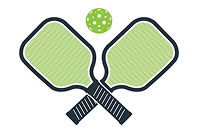
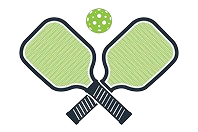
Style fixes

diff --git a/client/src/components/LiveStream.tsx b/client/src/components/LiveStream.tsx
@@ -2,46 +2,47 @@
 
 export default function LiveStream() {
   return (
-    <section id="stream" className="stream-section">
-      <div className="stream-header">
+    <section id='stream' className='stream-section'>
+      <div className='stream-header'>
         <div>
-          <h2 className="stream-title">Live Court Feed</h2>
-          <p className="stream-sub">Stream Each Court in Real Time</p>
+          <h2 className='stream-title'>Live Court Feed</h2>
+          <p className='stream-sub'>Stream Each Court in Real Time</p>
         </div>
 
-        <span className="live-badge">
-          <span className="dot" /> Live
-        </span>
+        <div className='live-pill'>
+          <span className='live-dot' />
+          Live
+        </div>
       </div>
 
-      <div className="stream-grid">
-        <figure className="stream-card">
-          <figcaption className="stream-tag">Court 1</figcaption>
-          <div className="stream-frame">
+      <div className='stream-grid'>
+        <figure className='stream-card'>
+          <figcaption className='stream-tag'>Court 1</figcaption>
+          <div className='stream-frame'>
             {/* Streams the livestream of court 1 */}
             <iframe
-              width="560"
-              height="315"
-              src="https://www.youtube.com/embed/LCwzqDMXbCk?autoplay=1&mute=1"
-              title="YouTube live stream"
-              frameBorder="0"
-              allow="autoplay; encrypted-media"
+              width='560'
+              height='315'
+              src='https://www.youtube.com/embed/LCwzqDMXbCk?autoplay=1&mute=1'
+              title='YouTube live stream'
+              frameBorder='0'
+              allow='autoplay; encrypted-media'
               allowFullScreen
             ></iframe>
           </div>
         </figure>
 
-        <figure className="stream-card">
-          <figcaption className="stream-tag">Court 2</figcaption>
-          <div className="stream-frame">
+        <figure className='stream-card'>
+          <figcaption className='stream-tag'>Court 2</figcaption>
+          <div className='stream-frame'>
             {/* Streams the livestream of court 2 */}
             <iframe
-              width="560"
-              height="315"
-              src="https://www.youtube.com/embed/-yaAA2wVHRA?autoplay=1&mute=1"
-              title="YouTube live stream"
-              frameBorder="0"
-              allow="autoplay; encrypted-media"
+              width='560'
+              height='315'
+              src='https://www.youtube.com/embed/-yaAA2wVHRA?autoplay=1&mute=1'
+              title='YouTube live stream'
+              frameBorder='0'
+              allow='autoplay; encrypted-media'
               allowFullScreen
             ></iframe>
           </div>

diff --git a/client/src/App.css b/client/src/App.css
@@ -6,7 +6,6 @@
   display: flex;
   justify-content: center;
   align-items: flex-end;
-  border-radius: 12px 12px 0 0;
 }
 
 .nav-pill {
@@ -92,25 +91,24 @@ body {
 }
 
 .hero-logo {
-  width: 75px;
+  width: 200px;
   height: auto;
-  margin-bottom: 8px;
 }
 
 .site-title {
   font-family: "Chelsea Market", serif;
-  font-size: 64px;
+  font-size: 72px;
   color: #aec48c;
-  text-shadow: -4px 0 0 #2f5130;
+  text-shadow: -4px 4px 0 #2f5130;
   margin: 0;
 }
 
 .hero-tagline {
   font-family: "Bree Serif", serif;
-  font-size: 22px;
+  font-size: 20px;
   font-weight: 300;
   color: #6f7f6b;
-  margin-top: 14px;
+  margin-top: -10px;
 }
 
 /* OCCUPANCY */
@@ -125,14 +123,16 @@ body {
 
 .occ-head {
   display: flex;
-  align-items: flex-start;
+  align-items: center;
   justify-content: space-between;
-  margin: 10px 0 18px;
+  margin-bottom: 65px;
 }
 .occ-title {
   margin: 0;
-  font: 700 22px/1 "Bree Serif", serif;
-  color: #222;
+  font-family: "Bree Serif", serif;
+  font-weight: 700;
+  font-size: 26px;
+  color: #1f2e1e;
 }
 .occ-sub {
   margin: 6px 0 0;
@@ -281,15 +281,15 @@ body {
 
 .divider {
   width: 100vw;
-  height: 14px;
+  height: 23px;
   border: none;
-  border-top: 5px solid #a9b88e;
-  border-bottom: 5px solid #588157;
+  border-top: 8px solid #a9b88e;
+  border-bottom: 8px solid #588157;
   position: relative;
   left: 50%;
   transform: translateX(-50%);
-  margin: 24px 0;
-  margin-top: 50px;
+  margin-bottom: 40px;
+  margin-top: 70px;
 }
 
 @media (max-width: 900px) {
@@ -307,10 +307,9 @@ body {
 
 .stream-header {
   display: flex;
-  align-items: baseline;
+  align-items: center;
   justify-content: space-between;
-  gap: 16px;
-  margin-bottom: 18px;
+  margin-bottom: 65px;
 }
 
 .stream-title {
@@ -322,10 +321,9 @@ body {
 }
 
 .stream-sub {
-  margin: 4px 0 0;
-  font-size: 12px;
-  color: #6e7a67;
-  letter-spacing: 0.02em;
+  margin: 6px 0 0;
+  color: #6e7b67;
+  font-size: 14px;
 }
 
 .live-badge {
@@ -349,23 +347,27 @@ body {
 }
 
 .stream-grid {
-  display: grid;
+  display: flex;
+  flex-direction: column;
   gap: 56px;
   margin-top: 40px;
+  align-items: center;
 }
 
 .stream-card {
   position: relative;
+  width: 100%;
+  max-width: 590px;
 }
 
 .stream-tag {
   position: absolute;
-  left: 0;
+  left: -20px;
   top: -20px;
   background: #5a7657;
   color: #fff;
   font-family: "Bree Serif", serif;
-  font-size: 16px;
+  font-size: 20px;
   padding: 10px 18px;
   border-radius: 10px;
 }
@@ -374,7 +376,7 @@ body {
   background: #a7b48e;
   border-radius: 8px;
   padding: 14px;
-  box-shadow: 0 6px 0 #4d6a4b;
+  box-shadow: 8px 8px 0 #4d6a4b;
 }
 .stream-frame img {
   display: block;

diff --git a/client/src/pages/HomePage.tsx b/client/src/pages/HomePage.tsx
@@ -99,15 +99,17 @@ export default function HomePage() {
 
   return (
     <>
-      <section className="hero">
-        <div className="hero-title">
-          <img className="hero-logo" src={pickle} alt="pickleball paddles" />
-          <h1 className="site-title">PicklePortal</h1>
+      <section className='hero'>
+        <div className='hero-title'>
+          <img className='hero-logo' src={pickle} alt='pickleball paddles' />
+          <h1 className='site-title'>PicklePortal</h1>
         </div>
-        <p className="hero-tagline">Plan your next pickleball match effortlessly.</p>
-        <div className="divider"></div>
+        <p className='hero-tagline'>
+          Plan your next pickleball match effortlessly.
+        </p>
+        <div className='divider'></div>
       </section>
-
+      <div className='divider'></div>
       <OccupancyMonitor totalPlayers={totalPlayers} courts={courts} />
       <div className="divider"></div>
       <LiveStream />
